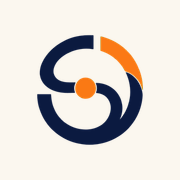
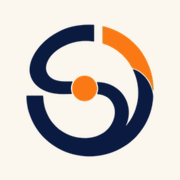
PWA: ícones gerados do símbolo oficial do Drive (770 px)
Antes vinham do icon.png de 256 px. Cache do service worker vai para v2
para os aparelhos pegarem os ícones novos.

Changed region(s): [[0.1389, 0.1111, 0.8611, 0.8889]]

diff --git a/public/sw.js b/public/sw.js
@@ -6,7 +6,7 @@
 //  - Navegação: rede primeiro; sem rede, a cópia guardada (ou /app como reserva).
 //  - Ícones e manifest: cache primeiro.
 // Ao mudar a lista abaixo, suba a versão para limpar o cache antigo.
-const VERSION = "smartdayz-v1";
+const VERSION = "smartdayz-v2";
 const PRECACHE = [
   "/app",
   "/manifest.webmanifest",
